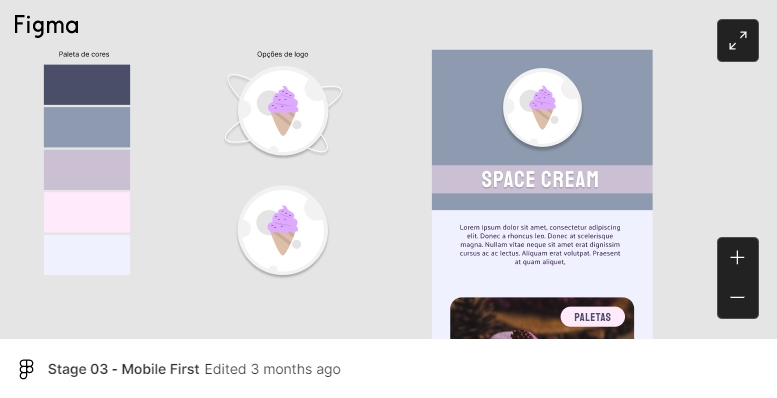
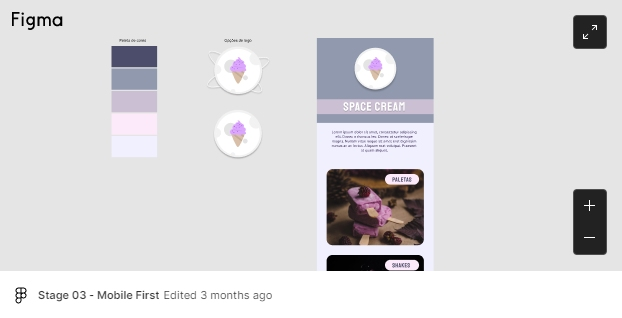
readme update

diff --git a/README.md b/README.md
@@ -11,16 +11,26 @@
 
 Desafio recriando layout mobile first do treinamento `Explorer` da @Rocketseat utilizando:
 
-- [x] Mobile First;
-- [x] Unidade de medida flexível;
-- [x] Variáveis css;
-- [x] Animações.
+- [x] Mobile First
+- [x] Unidade de medida flexível
+- [x] Variáveis css
+- [x] Animações em css
+- [x] Media Queries
+- [x] Grid
+
+
 
 [A versão final do projeto pode ser vista neste link.](https://dam450.github.io/rseat-mobile-first/)
 
 ## 🎞 Layout
 
+### Mobile
+
 [![figma-preview]](https://www.figma.com/file/bmswjQHCOR1E2sqTanVTmb/Stage-03---Mobile-First-(Copy)?node-id=0%3A1&viewer=1)
+
+### Desktop
+
+[![figma-preview2]](https://www.figma.com/embed?embed_host=notion&url=https%3A%2F%2Fwww.figma.com%2Ffile%2FpddZCuQIRLjk5dEHQ4L4YR%2FStage-03---Grid-com-anima%25C3%25A7%25C3%25B5es%3Fnode-id%3D0%253A1&viewer=1)
 
 ## 🧰 Tecnologias
 
@@ -41,6 +51,7 @@ Made by
 <!-- Images -->
 
 [figma-preview]: ./.github/figma.jpg 'Figma preview'
+[figma-preview2]: ./.github/figma2.jpg 'Figma preview'
 [img-preview]: ./.github/preview.jpg 'Figma preview'
 
 [langs]: https://img.shields.io/github/languages/count/dam450/space-shooter?style=plastic 'Linguagens utilizadas'
